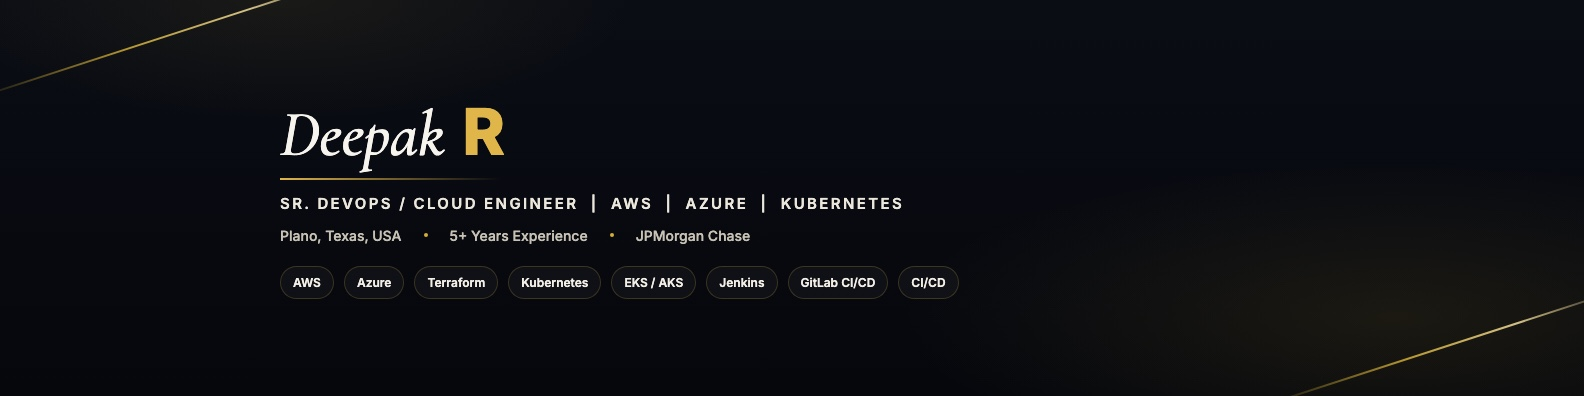
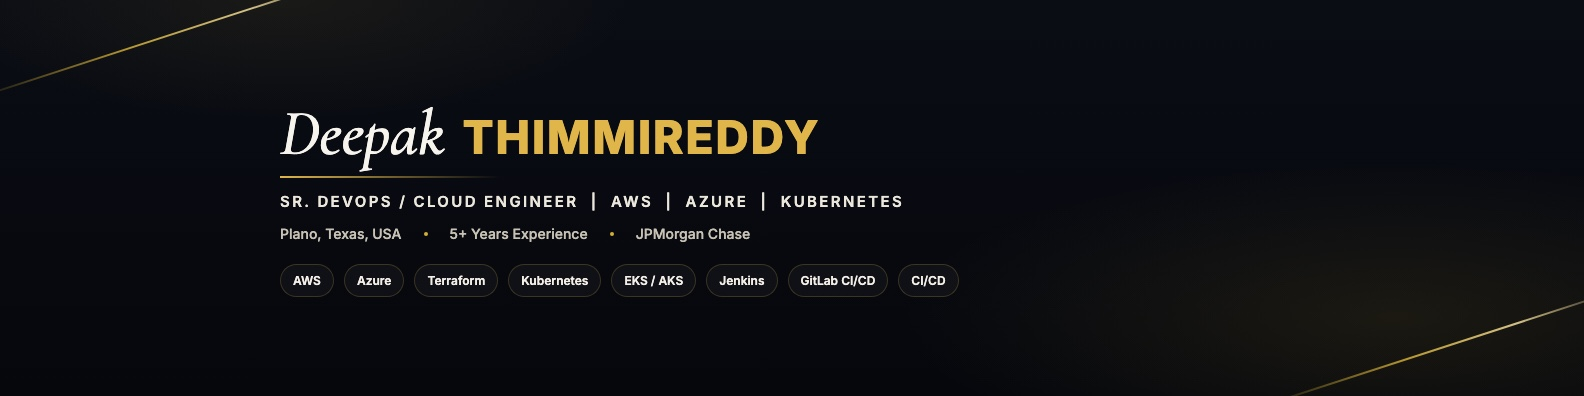
Use Thimmireddy as Deepak's last name.

diff --git a/index.html b/index.html
@@ -6,12 +6,12 @@
     <meta name="viewport" content="width=device-width, initial-scale=1.0" />
     <meta
       name="description"
-      content="Deepak R — Sr. DevOps / Cloud Engineer at JPMorgan Chase. AWS, Azure, Terraform, Kubernetes, and regulated platform operations."
+      content="Deepak Thimmireddy — Sr. DevOps / Cloud Engineer at JPMorgan Chase. AWS, Azure, Terraform, Kubernetes, and regulated platform operations."
     />
     <link rel="canonical" href="https://oneapppay.github.io/deepak-portfolio/" />
     <meta property="og:type" content="website" />
     <meta property="og:url" content="https://oneapppay.github.io/deepak-portfolio/" />
-    <meta property="og:title" content="Deepak R · Sr. DevOps / Cloud Engineer" />
+    <meta property="og:title" content="Deepak Thimmireddy · Sr. DevOps / Cloud Engineer" />
     <meta
       property="og:description"
       content="Sr. DevOps / Cloud Engineer at JPMorgan Chase. AWS, Azure, Terraform, Kubernetes, and regulated platform operations."
@@ -22,9 +22,9 @@
     />
     <meta property="og:image:width" content="1200" />
     <meta property="og:image:height" content="630" />
-    <meta property="og:image:alt" content="Deepak R portfolio preview" />
+    <meta property="og:image:alt" content="Deepak Thimmireddy portfolio preview" />
     <meta name="twitter:card" content="summary_large_image" />
-    <meta name="twitter:title" content="Deepak R · Sr. DevOps / Cloud Engineer" />
+    <meta name="twitter:title" content="Deepak Thimmireddy · Sr. DevOps / Cloud Engineer" />
     <meta
       name="twitter:description"
       content="Sr. DevOps / Cloud Engineer at JPMorgan Chase. AWS, Azure, Terraform, Kubernetes, and regulated platform operations."
@@ -33,7 +33,7 @@
       name="twitter:image"
       content="https://oneapppay.github.io/deepak-portfolio/og-image.png"
     />
-    <title>Deepak R · Sr. DevOps / Cloud Engineer</title>
+    <title>Deepak Thimmireddy · Sr. DevOps / Cloud Engineer</title>
     <link rel="preconnect" href="https://fonts.googleapis.com" />
     <link rel="preconnect" href="https://fonts.gstatic.com" crossorigin />
     <link

diff --git a/og-card.html b/og-card.html
@@ -22,7 +22,7 @@
         font-family: Inter, sans-serif;
       }
       .kicker { letter-spacing: 3px; text-transform: uppercase; font-size: 16px; color: #99f6e4; font-weight: 600; }
-      .name { font-family: "Cormorant Garamond", serif; font-style: italic; font-size: 84px; line-height: 0.95; }
+      .name { font-family: "Cormorant Garamond", serif; font-style: italic; font-size: 72px; line-height: 0.95; }
       .name strong { font-family: "Space Grotesk", sans-serif; font-style: normal; color: #5eead4; }
       .role { font-size: 28px; font-weight: 600; color: #cbd5e1; }
       .org { font-size: 20px; color: #94a3b8; }
@@ -40,7 +40,7 @@
   <body>
     <div class="card">
       <p class="kicker">Portfolio</p>
-      <h1 class="name">Deepak <strong>R</strong></h1>
+      <h1 class="name">Deepak <strong>Thimmireddy</strong></h1>
       <p class="role">Sr. DevOps / Cloud Engineer</p>
       <p class="org">JPMorgan Chase · Plano, TX · 5+ years AWS, Azure, Kubernetes</p>
       <div class="chips">

diff --git a/linkedin-cover.html b/linkedin-cover.html
@@ -56,9 +56,9 @@
         color: #f7f4ee;
       }
       .last {
-        font-size: 64px;
+        font-size: 46px;
         font-weight: 800;
-        letter-spacing: 4px;
+        letter-spacing: 2px;
         color: #e0b64a;
         text-transform: uppercase;
       }
@@ -101,7 +101,7 @@
       <div class="safe">
         <div class="name">
           <span class="first">Deepak</span>
-          <span class="last">R</span>
+          <span class="last">Thimmireddy</span>
         </div>
         <div class="rule"></div>
         <div class="roles">Sr. DevOps / Cloud Engineer &nbsp;|&nbsp; AWS &nbsp;|&nbsp; Azure &nbsp;|&nbsp; Kubernetes</div>

diff --git a/src/data/content.ts b/src/data/content.ts
@@ -1,8 +1,8 @@
 export const profile = {
-  name: "Deepak R",
+  name: "Deepak Thimmireddy",
   firstName: "Deepak",
-  lastName: "R",
-  initials: "DR",
+  lastName: "Thimmireddy",
+  initials: "DT",
   title: "Sr. DevOps / Cloud Engineer",
   organization: "JPMorgan Chase",
   phone: "+1 774-777-8562",

diff --git a/README.md b/README.md
@@ -1,6 +1,6 @@
-# Deepak R — Portfolio
+# Deepak Thimmireddy — Portfolio
 
-Personal site for Deepak R, Sr. DevOps / Cloud Engineer. Built with Vite, React, TypeScript, and CSS for GitHub Pages.
+Personal site for Deepak Thimmireddy, Sr. DevOps / Cloud Engineer. Built with Vite, React, TypeScript, and CSS for GitHub Pages.
 
 ## Local development
 
